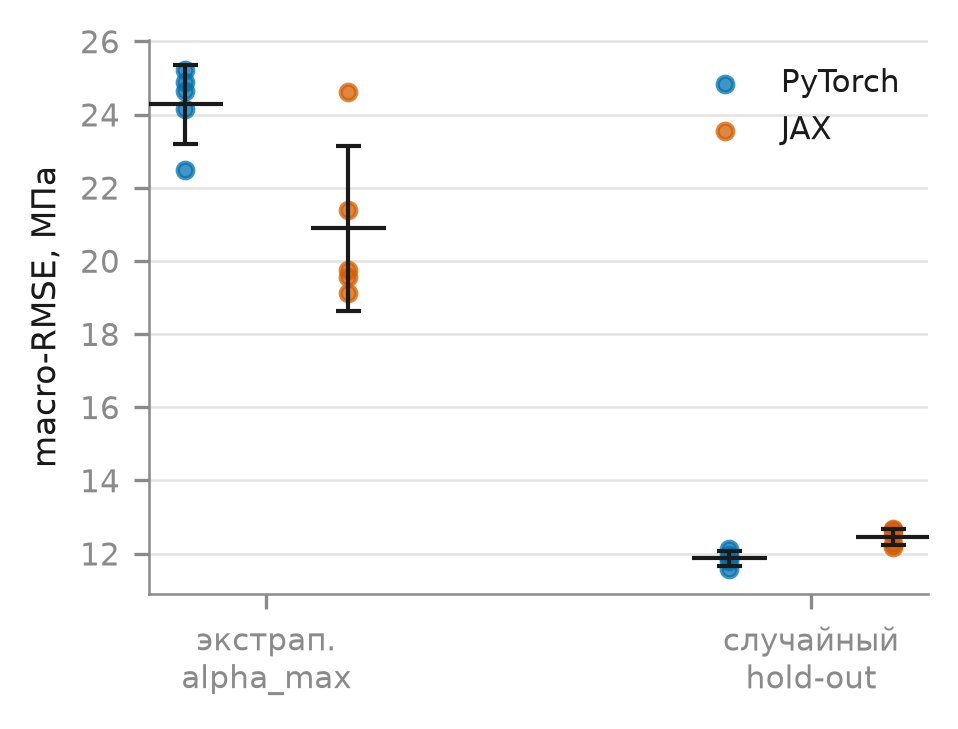
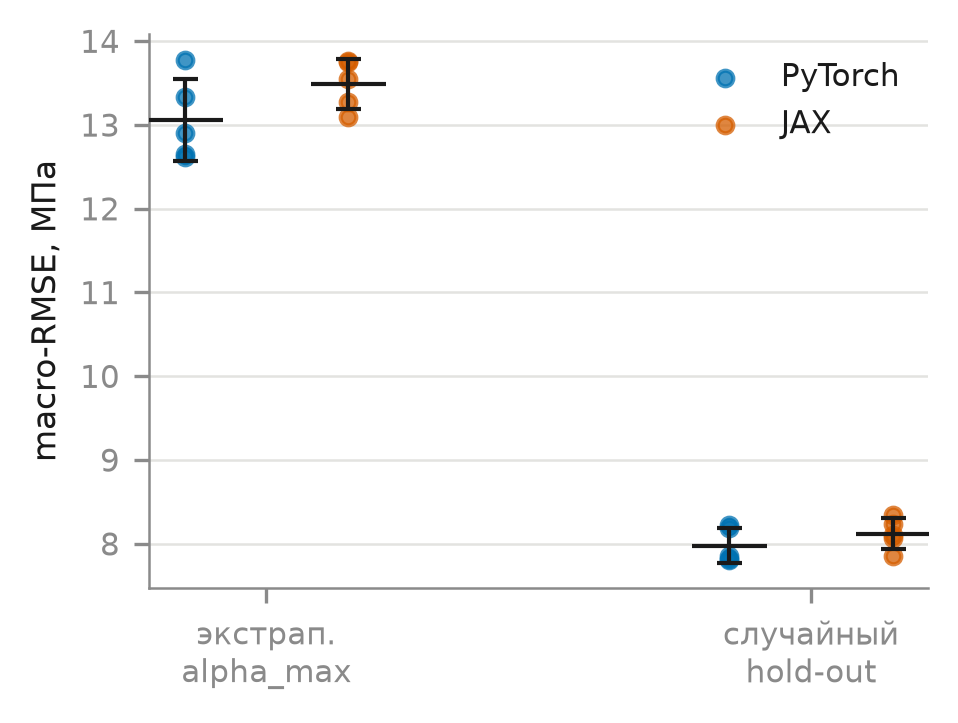
Рисунки пересобраны на данных v2; добавлена матрица alpha x Q
Все шесть стандартных рисунков (экстраполяция, кривые обучения, порча меток,
нарушение ГУ, бэкенды, 2D-абляция) пересобраны по runs_v2.csv.

Новый matrix_map.py по §1.4 плана FIGURE_STYLE: сетка карт, строки — один
фактор, столбцы — другой, шкала общая на всю сетку. Одиночная карта показывает
режим, но не говорит, ЧТО делает параметр; раскладка показывает это напрямую.

Клетка заполняется точным совпадением по фиксированным факторам, а при его
отсутствии — ближайшим набором, и фактические параметры печатаются над
панелью. Иначе читатель решит, что сравниваются строго сопоставимые режимы.
В построенном рисунке 13 клеток из 16 точные.

Зависимость измерена, а не взята из общих соображений, и оказалась
НЕМОНОТОННОЙ. Размах sigma_zz по радиусу, МПа:
  по Q:  410 -> 424 -> 452 -> 461 (пик при Q = 0.10) -> 422 -> 291
  по alpha: 441 -> 433 -> 422 -> 404 -> 367 (монотонно вниз)
Растяжение на поверхности убывает и с Q (211 -> 71), и с alpha (162 -> 130).

Проверял и гипотезу о параметре неоднородности Δ = (α/r)(1+√(1−r))²/4: он
сильно коррелирует с УРОВНЕМ sigma_zz на поверхности (Спирмен +0.697), но
почти не коррелирует с РАЗМАХОМ по радиусу (-0.071). То есть простое 'выше Δ —
выше остаточные напряжения' на этих данных не выполняется, и заявлять его
нельзя.

diff --git a/publication/experiments/matrix_map.py b/publication/experiments/matrix_map.py
@@ -1,0 +1,174 @@
+"""
+matrix_map.py — как поле меняется по плану эксперимента.
+
+Одиночная карта показывает один режим и не говорит, ЧТО именно делает
+параметр. Раскладка «строки = один фактор, столбцы = другой» показывает это
+напрямую: по строке видно действие первого фактора, по столбцу — второго.
+
+Образец — Zhang et al., Cryogenics 158 (2026) 104364, Fig. 9(d–f): строки
+температура, столбцы деформация. Их исполнение мы не копируем (радужная шкала
+на знакопеременных полях, 90 карт на страницу); берём только раскладку.
+
+Шкала ОБЩАЯ на всю сетку, иначе панели несравнимы, а именно ради сравнения
+рисунок и строится. Значения берутся из МКЭ: рисунок про физику процесса, а
+не про качество модели.
+"""
+from __future__ import annotations
+
+import argparse
+import os
+import sys
+from typing import List, Optional
+
+import matplotlib
+matplotlib.use("Agg")
+import matplotlib.pyplot as plt
+import numpy as np
+
+HERE = os.path.dirname(os.path.abspath(__file__))
+sys.path.insert(0, HERE)
+sys.path.insert(0, os.path.join(HERE, "..", "code"))
+
+from contours import DIVERGING, INK, MUTED, _sym  # noqa: E402
+from dataset2d import Field2D  # noqa: E402
+
+COMP = {"sigma_rr": (0, r"$\sigma_{rr}$"), "sigma_tt": (1, r"$\sigma_{\theta\theta}$"),
+        "sigma_zz": (2, r"$\sigma_{zz}$"), "tau_rz": (3, r"$\tau_{rz}$")}
+COL = {"Q": 0, "k": 1, "alpha": 2, "mu": 3, "v": 4}
+UNIT = {"Q": "", "k": "", "alpha": "°", "mu": "", "v": " м/мин"}
+
+
+def fig_matrix(field2d: str, out: str, comp: str = "sigma_zz",
+               row: str = "alpha", col: str = "Q",
+               fixed: Optional[dict] = None, max_n: int = 4):
+    """
+    Сетка карт: строки — уровни `row`, столбцы — уровни `col`.
+
+    Прочие факторы фиксируются (`fixed`); если для клетки точного совпадения
+    нет, берётся БЛИЖАЙШИЙ набор по нормированному расстоянию в пространстве
+    оставшихся факторов, и его параметры печатаются в заголовке клетки —
+    иначе читатель решит, что сравниваются строго сопоставимые режимы.
+    """
+    if comp not in COMP:
+        raise SystemExit(f"компонента: {sorted(COMP)}")
+    ci, tex = COMP[comp]
+    f = Field2D.load(field2d)
+    proc = f.proc
+    fixed = fixed or {}
+
+    rows = sorted(set(proc[:, COL[row]]))
+    cols = sorted(set(proc[:, COL[col]]))
+    if len(rows) > max_n:
+        rows = [rows[i] for i in np.linspace(0, len(rows) - 1, max_n).round().astype(int)]
+    if len(cols) > max_n:
+        cols = [cols[i] for i in np.linspace(0, len(cols) - 1, max_n).round().astype(int)]
+
+    free = [k for k in COL if k not in (row, col)]
+    scale = {k: (proc[:, COL[k]].std() or 1.0) for k in free}
+
+    picks, exact = {}, 0
+    for r in rows:
+        for c in cols:
+            m = np.isclose(proc[:, COL[row]], r) & np.isclose(proc[:, COL[col]], c)
+            for k, v in fixed.items():
+                mm = m & np.isclose(proc[:, COL[k]], v)
+                if mm.any():
+                    m = mm
+            idx = np.flatnonzero(m)
+            if not len(idx):
+                picks[(r, c)] = None
+                continue
+            d = np.zeros(len(idx))
+            for k, v in fixed.items():
+                d += ((proc[idx, COL[k]] - v) / scale[k]) ** 2
+            j = int(idx[np.argmin(d)])
+            picks[(r, c)] = j
+            if all(np.isclose(proc[j, COL[k]], v) for k, v in fixed.items()):
+                exact += 1
+
+    vals = [f.y[j][:, :, ci] for j in picks.values() if j is not None]
+    if not vals:
+        raise SystemExit("ни одной клетки не заполнено")
+    lim = _sym(np.concatenate([v.ravel() for v in vals]))
+
+    nr, nc = len(rows), len(cols)
+    fig, axes = plt.subplots(nr, nc, figsize=(2.15 * nc + 1.5, 2.0 * nr + 1.5),
+                             sharex=True, sharey=True, layout="constrained")
+    axes = np.atleast_2d(axes)
+    cf = None
+    for i, r in enumerate(rows):
+        for j, c in enumerate(cols):
+            ax = axes[i, j]
+            k = picks[(r, c)]
+            if k is None:
+                ax.text(0.5, 0.5, "нет данных", ha="center", va="center",
+                        transform=ax.transAxes, fontsize=7, color=MUTED)
+                ax.set_xticks([]); ax.set_yticks([])
+                continue
+            lev = np.linspace(-lim, lim, 21)
+            cf = ax.contourf(f.r[k], np.repeat(f.z[k][:, None], f.r.shape[2], axis=1),
+                             f.y[k][:, :, ci], levels=lev, cmap=DIVERGING, extend="both")
+            ax.contour(f.r[k], np.repeat(f.z[k][:, None], f.r.shape[2], axis=1),
+                       f.y[k][:, :, ci], levels=lev[::5], colors="k",
+                       linewidths=0.25, alpha=0.35)
+            ax.set_xlim(0, 1); ax.set_ylim(0, 1)
+            ax.set_xticks([0, 0.5, 1.0]); ax.set_yticks([0, 0.5, 1.0])
+            other = ", ".join(f"{k_}={proc[k, COL[k_]]:g}" for k_ in free)
+            ax.set_title(other, fontsize=6.5, color=MUTED)
+            if i == 0:
+                ax.text(0.5, 1.28, f"{col} = {c:g}{UNIT[col]}", fontsize=8.5,
+                        ha="center", transform=ax.transAxes, color=INK)
+            if j == 0:
+                ax.set_ylabel(f"{row} = {r:g}{UNIT[row]}\n" + r"$z/L$", fontsize=8)
+            if i == nr - 1:
+                ax.set_xlabel(r"$r/R$")
+    cb = fig.colorbar(cf, ax=axes, fraction=0.035, pad=0.015,
+                      ticks=np.linspace(-lim, lim, 7))
+    cb.set_label(f"{tex}, МПа", fontsize=8)
+    cb.ax.tick_params(labelsize=6.5, color=MUTED)
+
+    fig.suptitle(f"{tex} по плану эксперимента: строки — {row}, столбцы — {col}",
+                 fontsize=9)
+    note = ("Данные МКЭ. Шкала общая на всю сетку — панели сравнимы между собой.\n"
+            "Мелким шрифтом над каждой панелью — прочие факторы фактически "
+            f"выбранного набора")
+    if fixed:
+        want = ", ".join(f"{k}={v:g}" for k, v in fixed.items())
+        note += (f"; целевые значения ({want}) достигнуты точно в "
+                 f"{exact} клетках из {nr * nc}, в остальных взят ближайший набор")
+    note += ".\n" + r"$r/R = 1$ — свободная поверхность; $z/L$ — доля осевого окна."
+    if comp == "sigma_zz" and row == "alpha" and col == "Q":
+        # измеренная зависимость, а не «как принято считать»: размах по
+        # радиусу НЕМОНОТОНЕН по обжатию и монотонно падает по полууглу
+        note += ("\nПо всему датасету (1756 наборов) размах $\sigma_{zz}$ по радиусу "
+                 "НЕмонотонен по Q: 410 → 452 → 461 (пик при Q = 0.10) → 422 → 291 МПа;\n"
+                 "по α падает монотонно: 441 → 433 → 422 → 404 → 367 МПа. "
+                 "Растяжение на поверхности убывает и с Q (211 → 71), и с α (162 → 130).")
+    fig.text(0.5, -0.012, note, ha="center", va="top", fontsize=7, color=INK)
+    fig.savefig(out)
+    plt.close(fig)
+    print(f"клеток заполнено {sum(v is not None for v in picks.values())} из {nr * nc}, "
+          f"точных совпадений по фиксированным факторам {exact}")
+    return out
+
+
+def main():
+    ap = argparse.ArgumentParser()
+    ap.add_argument("--field2d", required=True)
+    ap.add_argument("--out", required=True)
+    ap.add_argument("--comp", default="sigma_zz")
+    ap.add_argument("--row", default="alpha")
+    ap.add_argument("--col", default="Q")
+    ap.add_argument("--fixed", default="", help="например 'mu=0.05,v=20,k=0.5'")
+    ap.add_argument("--max-n", dest="max_n", type=int, default=4)
+    a = ap.parse_args()
+    fixed = {}
+    for part in filter(None, a.fixed.split(",")):
+        k, v = part.split("=")
+        fixed[k.strip()] = float(v)
+    print("создан", fig_matrix(a.field2d, a.out, a.comp, a.row, a.col,
+                               fixed or None, a.max_n))
+
+
+if __name__ == "__main__":
+    main()
